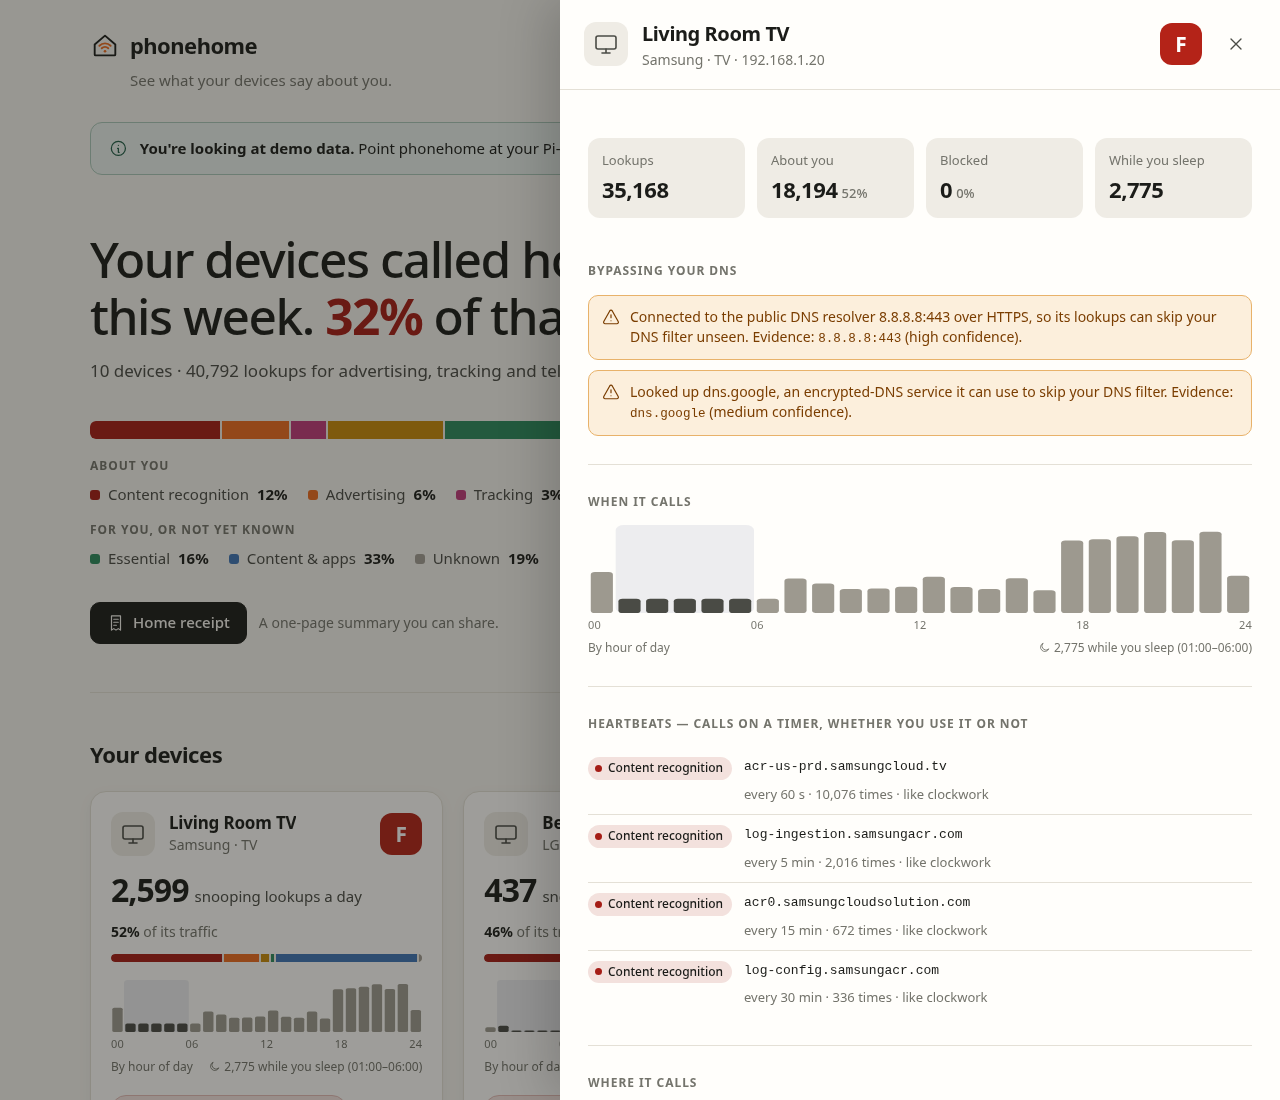
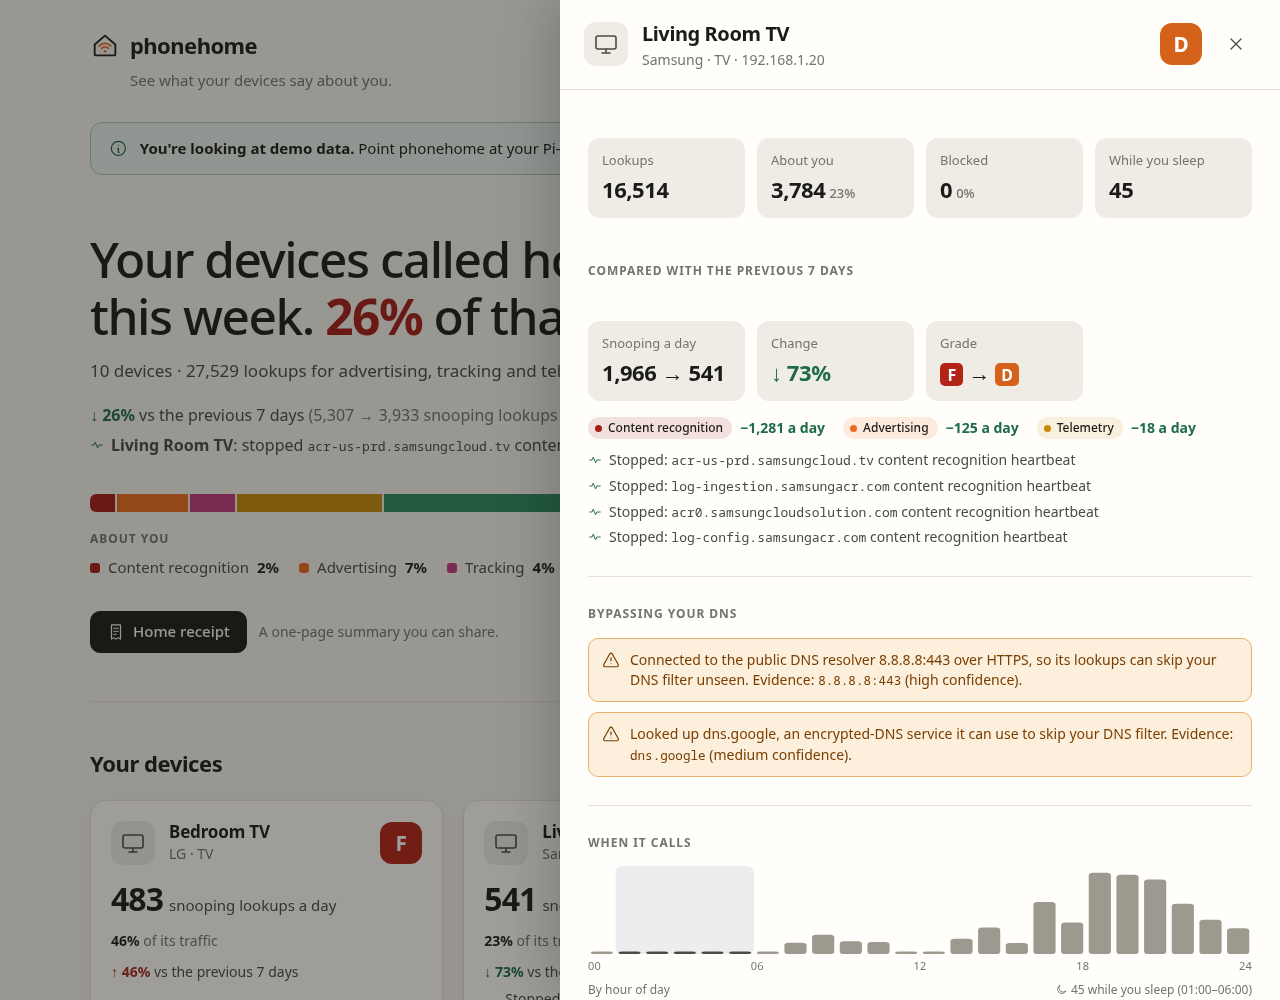
Prepare v0.2.0: changelog, README counts and images from the demo
The README now leads with the same TV before and after its content
recognition was switched off. Text report per-day figures are rounded like
the comparison line next to them.

diff --git a/cmd/phonehome/commands.go b/cmd/phonehome/commands.go
@@ -453,7 +453,7 @@ func printReport(w io.Writer, r model.HomeReport, days int) {
 	fmt.Fprintln(w)
 	for _, d := range r.Devices {
 		fmt.Fprintf(w, "%s  %-28s %8s lookups  %7s snooping/day  (%s)\n",
-			gradeOrDash(d.Grade), d.Device.DisplayName(), thousands(d.Total), thousands(int(d.PerDay)), d.Device.Kind)
+			gradeOrDash(d.Grade), d.Device.DisplayName(), thousands(d.Total), thousands(round(d.PerDay)), d.Device.Kind)
 		if c := d.Previous; c != nil {
 			if !c.Seen {
 				fmt.Fprintf(w, "     new: not seen in the %s\n", since)

diff --git a/README.md b/README.md
@@ -9,9 +9,9 @@ and tells you, in plain English, what your smart TV, speakers, cameras and robot
 vacuum send home: to whom, how often, and whether it happens while you sleep.
 Then it hands you a receipt.
 
-<img src="docs/img/receipt-tv.png" width="340" alt="A Privacy Receipt for a Samsung smart TV: 13,100 content-recognition lookups in a week, one every minute around the clock, grade F">&nbsp;&nbsp;<img src="docs/img/receipt-home.png" width="340" alt="A Privacy Receipt for a whole home with ten devices">
+<img src="docs/img/receipt-tv.png" width="340" alt="A Privacy Receipt for a Samsung smart TV over 30 days: 38,914 content-recognition lookups, a heartbeat every minute around the clock, grade F">&nbsp;&nbsp;<img src="docs/img/receipt-tv-since.png" width="340" alt="The same TV's receipt for the week after Viewing Information Services was turned off: content-recognition heartbeats stopped, 1,966 to 541 snooping lookups a day, grade F to D">
 
-<sub>Receipts from the built-in demo household. The numbers are synthetic, which is why they are stamped DEMO DATA.<br>Yours will be real.</sub>
+<sub>The same TV before and after one setting was switched off. Receipts from the built-in demo household: the numbers are synthetic, which is why they are stamped DEMO DATA.<br>Yours will be real.</sub>
 
 </div>
 
@@ -39,8 +39,9 @@ Open <http://localhost:8099>.
 | **Heartbeats** | Devices that call a server on a clock, every 60 seconds, around the clock, whether anyone is using them or not. |
 | **While you slept** | How much each device talked between 01:00 and 06:00 (you can set the window). |
 | **DNS bypass** | Devices that can, or do, route around your Pi-hole with DNS-over-HTTPS, DNS-over-TLS or a hard-coded resolver. |
-| **Who gets your data** | Every lookup is classified by a [knowledge base](kb/) of **540 rules across 114 companies**. Each rule cites its evidence and states a confidence level. |
-| **What to do about it** | 34 researched, step-by-step fixes, such as *Settings › General & Privacy › Terms & Privacy › Viewing Information Services → Off*. Each fix is shown only for the devices it applies to. |
+| **Who gets your data** | Every lookup is classified by a [knowledge base](kb/) of **715 rules across 138 companies**. Each rule cites its evidence and states a confidence level. |
+| **What to do about it** | 41 researched, step-by-step fixes, such as *Settings › General & Privacy › Terms & Privacy › Viewing Information Services → Off*. Each fix is shown only for the devices it applies to. |
+| **Since you fixed it** | Every report is compared with the period before it: grade F → D, ↓ 73% a day, which heartbeats stopped. Fix a setting, then come back next week for the second receipt. |
 
 Every device gets a grade from A to F based on how much of its traffic is
 about you rather than for you. [The rules are short and public.](docs/grading.md)
@@ -55,6 +56,10 @@ about you rather than for you. [The rules are short and public.](docs/grading.md
 | Receipt | Phone |
 |---|---|
 | ![The receipt dialog](docs/img/dashboard-receipt.png) | <img src="docs/img/dashboard-mobile.png" width="300" alt="Dashboard on a phone"> |
+
+| Whole-home receipt |
+|---|
+| <img src="docs/img/receipt-home.png" width="340" alt="A Privacy Receipt for a whole home with ten devices"> |
 
 </details>
 

diff --git a/CHANGELOG.md b/CHANGELOG.md
@@ -1,0 +1,42 @@
+# Changelog
+
+## v0.2.0
+
+### New
+- **Since you fixed it.** Every report is compared with the period before it:
+  snooping lookups a day before → now, the grade change, and which heartbeats
+  stopped or started. It appears in the dashboard, `phonehome report` and a
+  new *SINCE LAST WEEK* block on the receipt. See [docs/grading.md](docs/grading.md).
+- **Home grade.** The home gets its own A–F grade: as good as its worst device.
+- **Help classify.** `phonehome unknown` lists the domains the knowledge base
+  can't explain yet, and each device's details have a *Suggest a rule* link
+  that opens a prefilled GitHub issue with domain names only.
+- **A friendlier first run.** Auto-detection says when it finds Pi-hole's or
+  AdGuard Home's files but can't read them, and how to fix it. `serve` keeps
+  looking until a source appears. The dashboard shows a setup panel instead of
+  an empty page.
+- **Setup guides** for Pi-hole (Docker, on the host, over its API), AdGuard
+  Home, OpenWrt, Unraid, Synology and Proxmox, with compose files, plus
+  Homebrew and AUR templates attached to each release.
+
+### Knowledge base
+- 540 → 715 rules and 114 → 138 companies. New coverage includes Windows,
+  macOS/iOS, Linux, browsers, Microsoft 365, Slack, Zoom, messaging apps,
+  game consoles, web trackers, Roborock US, Dreame and Google Home/Cast.
+- 34 → 41 fixes: Panasonic, Sharp, Ecovacs, Blink, Tapo/Kasa (two) and Tuya.
+  Six existing fixes were corrected against their sources.
+
+### Reliability and speed
+- Fuzz tests for every parser. They found and fixed: an AdGuard reader that
+  could loop after a clock jump, a DHCP lease file broken by a device named
+  `{`, and a `retention_days` overflow.
+- Recovers from a replaced Pi-hole database, restarted ids and unreadable
+  cursors. Reads dnsmasq 2.86+ answers that carry an extended DNS error.
+- Retention also runs with `ingest --once`.
+- Reports over 30 days are about twice as fast and use a third of the memory.
+  `GOMEMLIMIT=128MiB` by default in the image and systemd unit. Numbers are in
+  [docs/performance.md](docs/performance.md).
+
+## v0.1.0
+
+First release.
